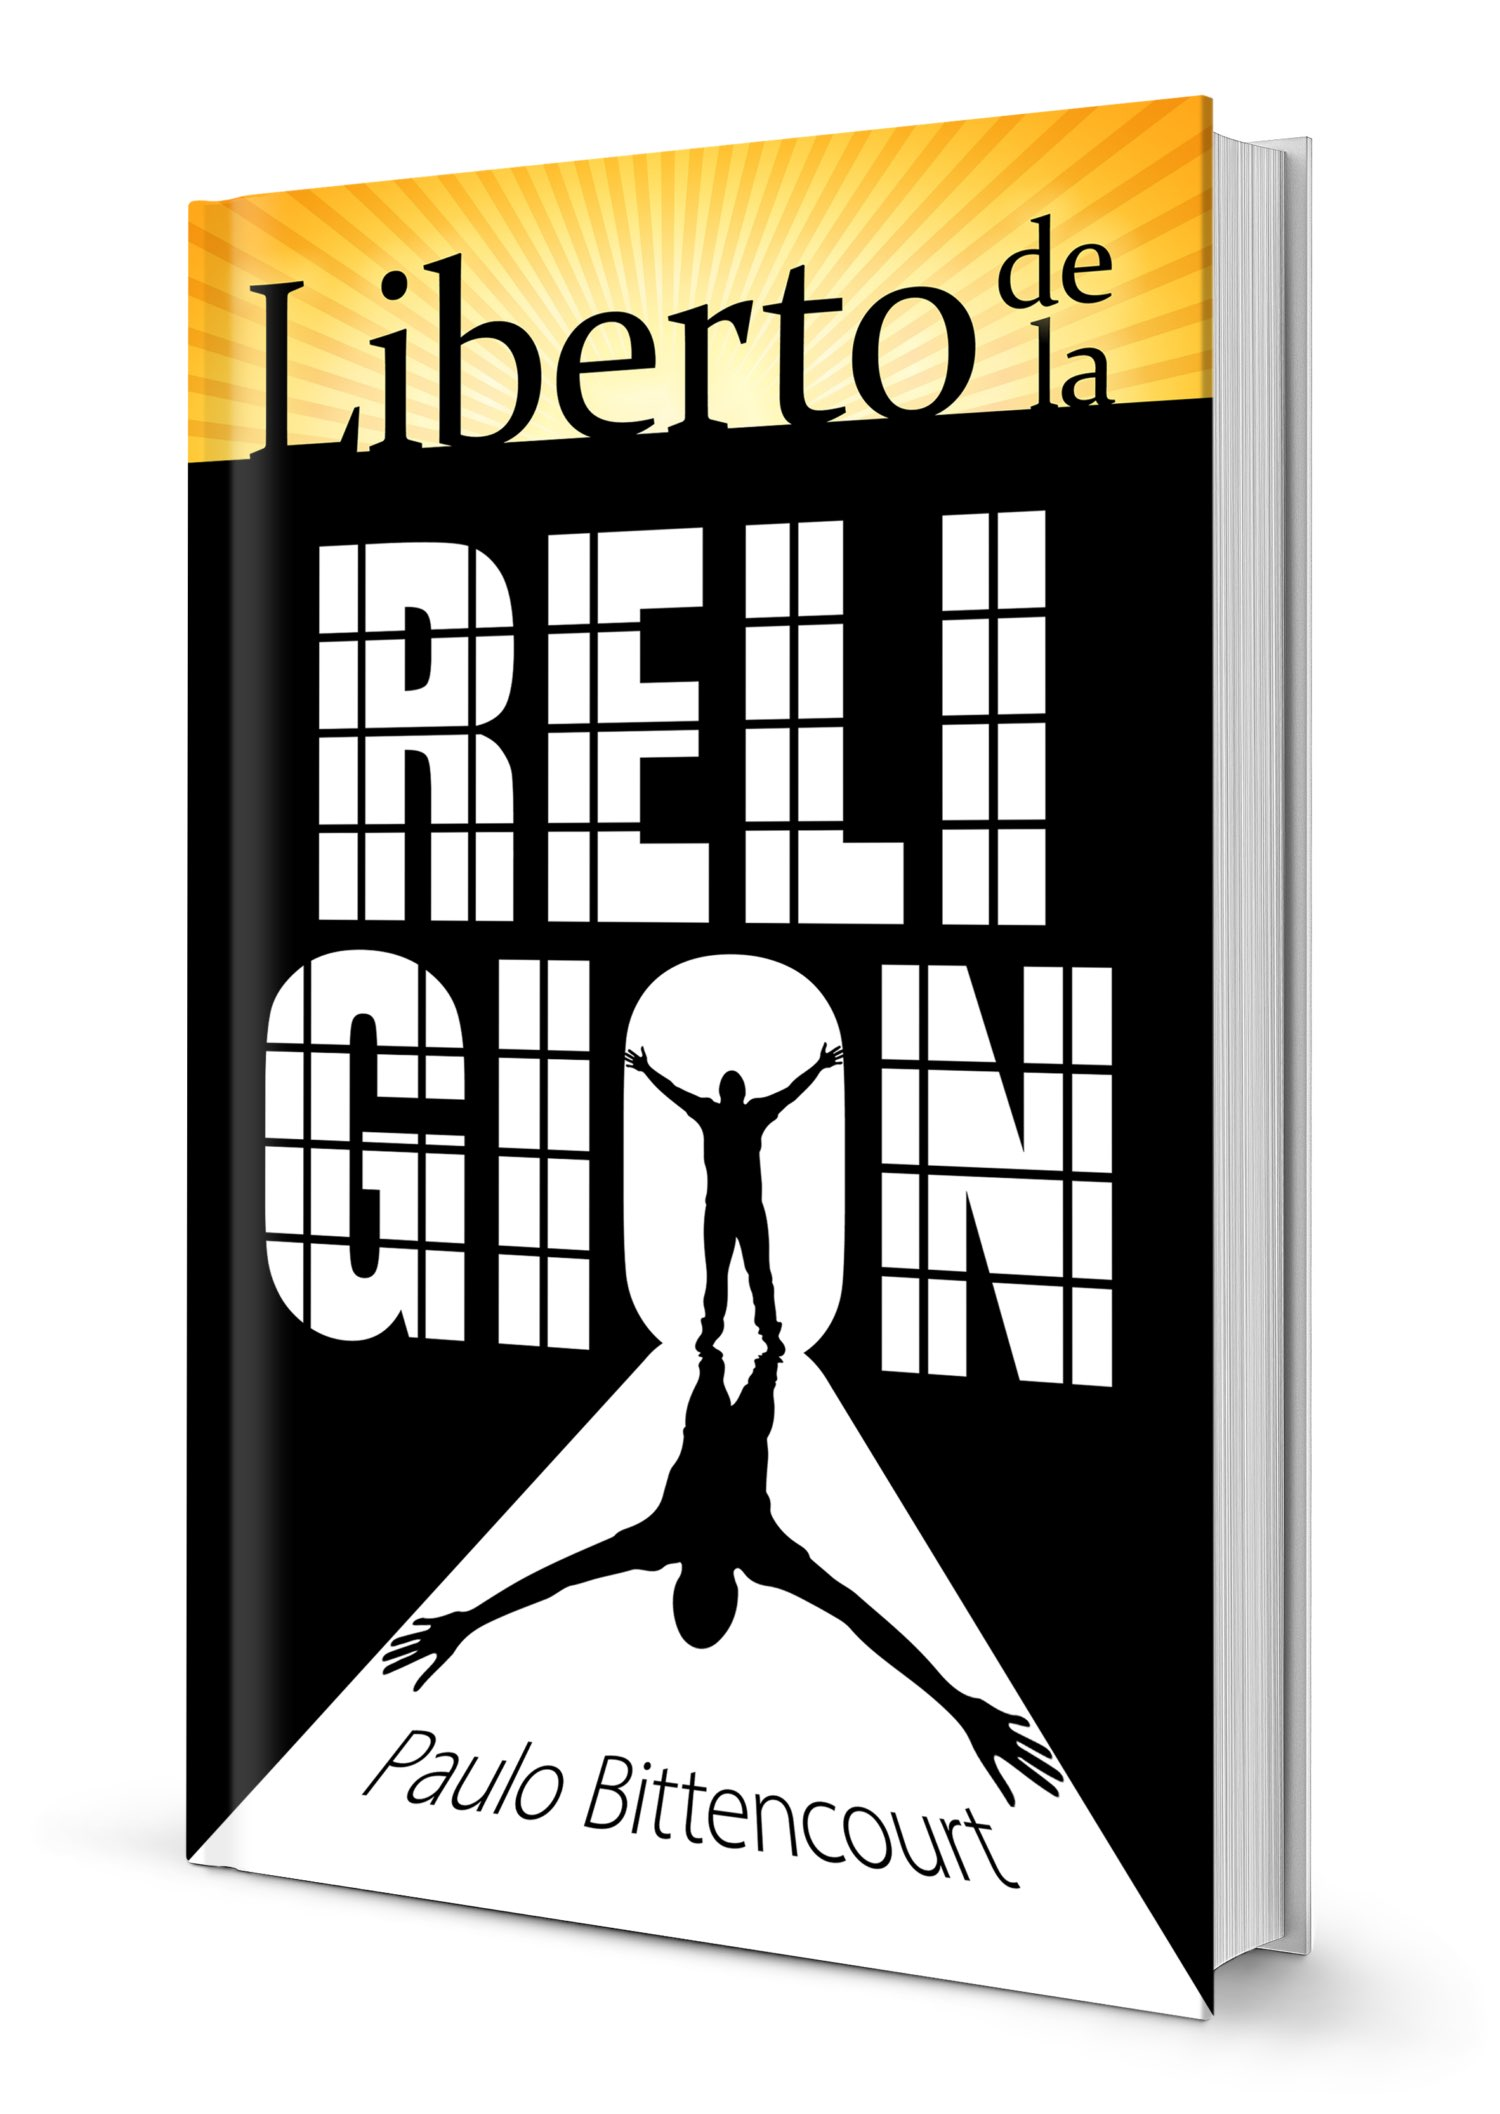
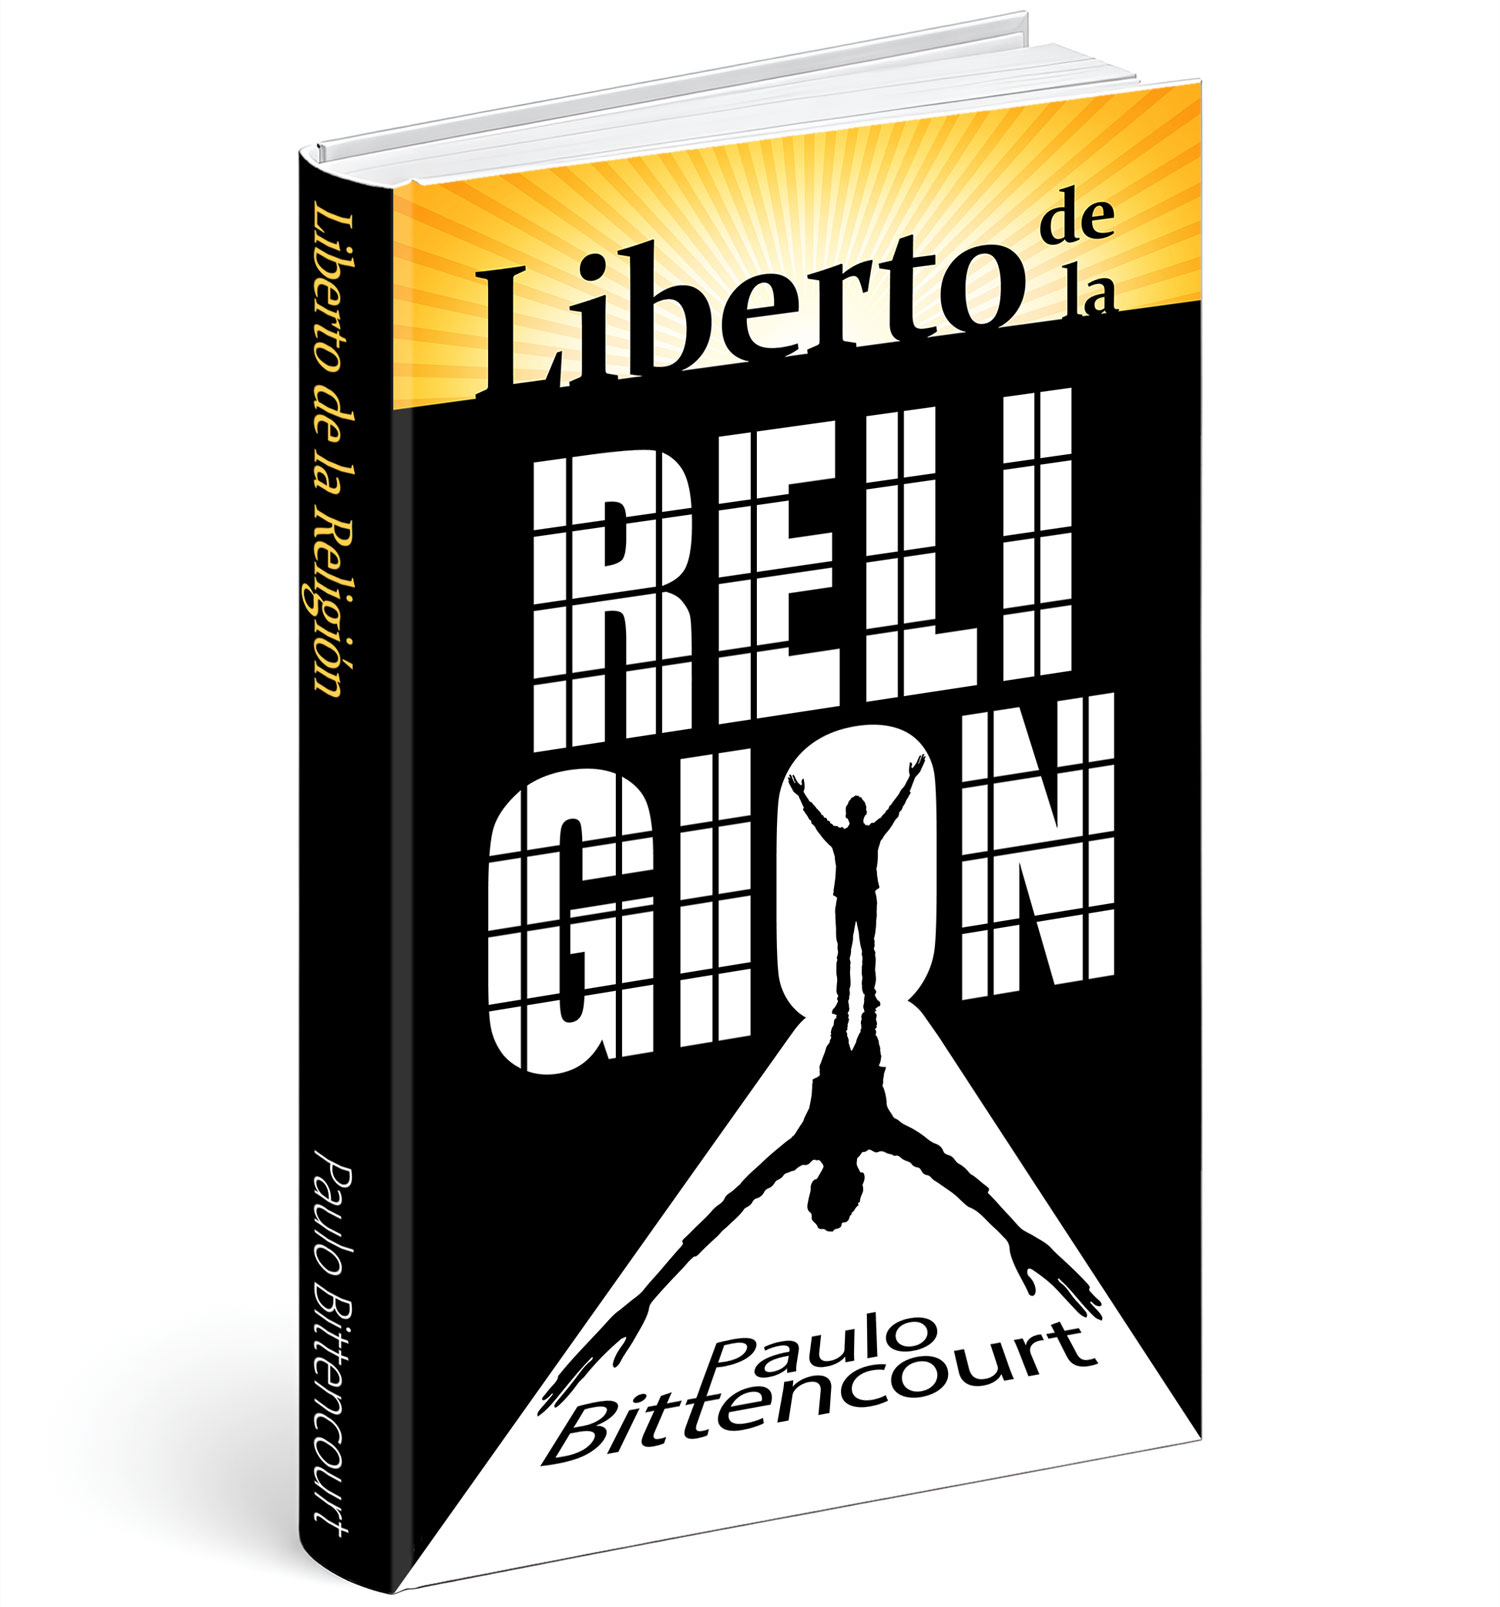
u

diff --git a/styles.css b/styles.css
@@ -101,7 +101,7 @@ img.below-copyright
 
 .below-covers
 {
-	margin: 4px 0px 0px 0px;
+	margin: 17px 0px 0px 0px;
 	text-indent: 0px;
 }
 
@@ -199,8 +199,8 @@ cite { font-style: normal; }
 
 .covers
 {
-	margin-top: 13px;
-	width: 40%;
+	margin-top: 26px;
+	width: 70%;
 }
 
 figure { margin: 0px; }
